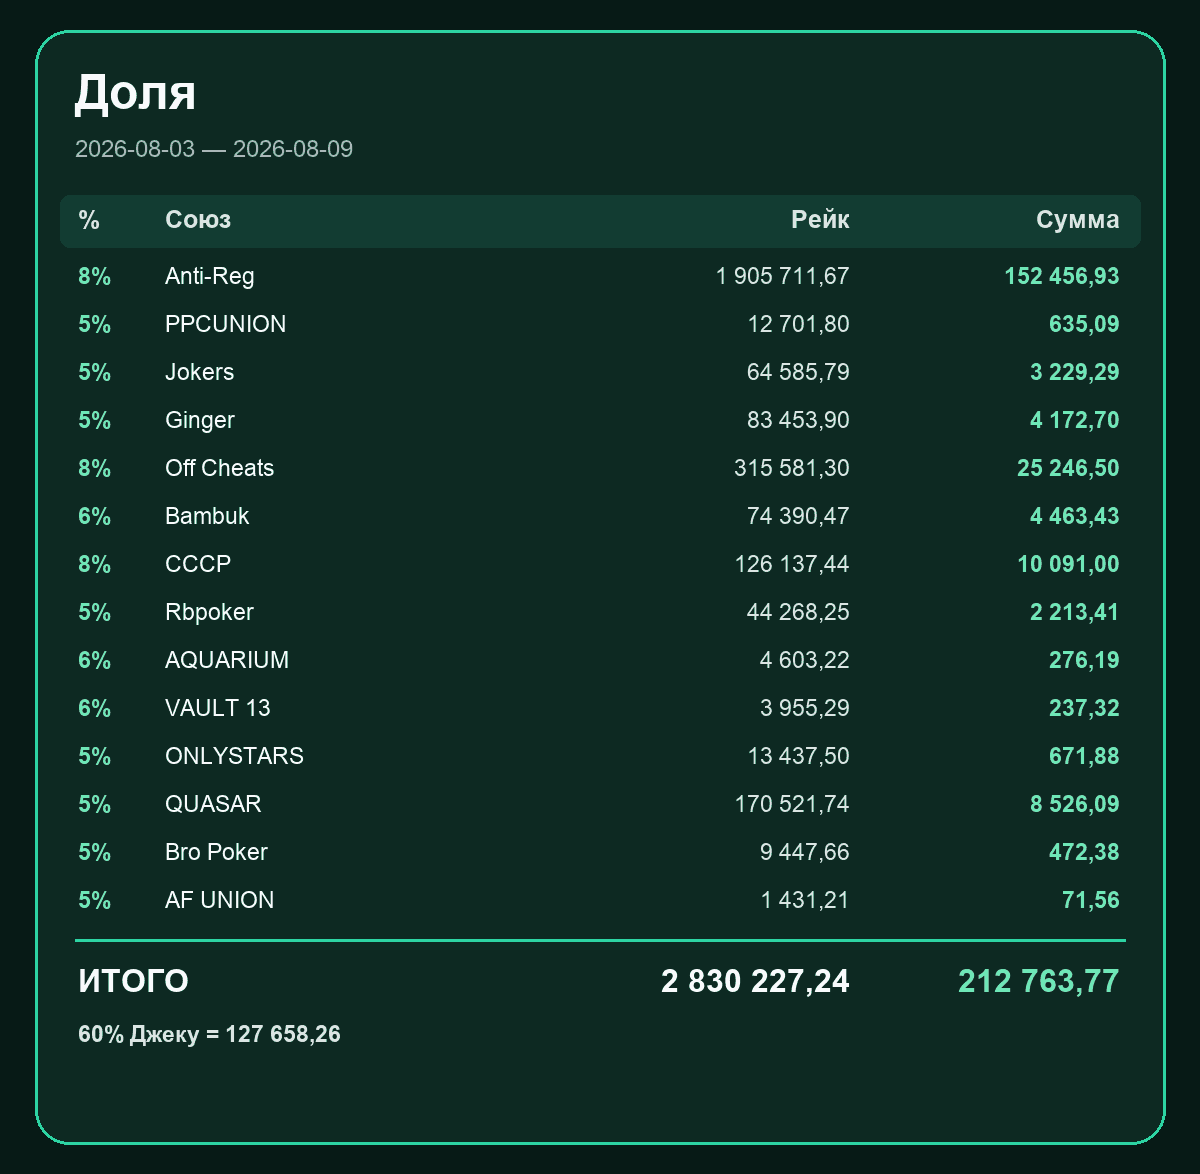
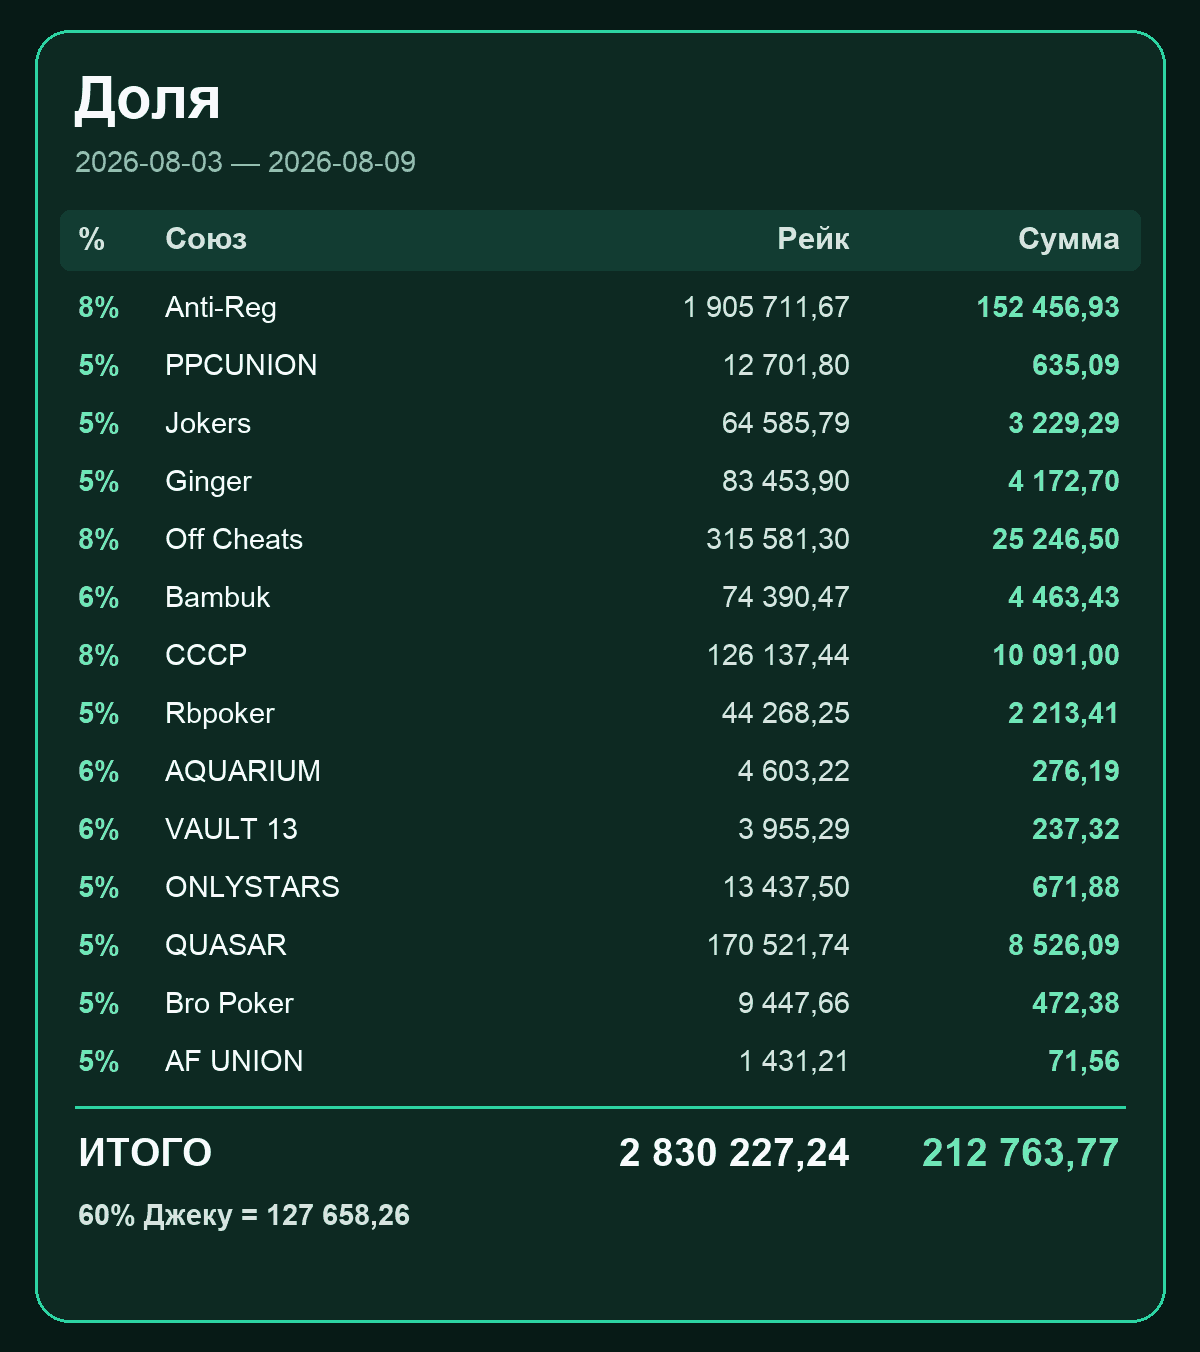
Add full share distribution report

Changed region(s): [[0.0308, 0.0, 0.9558, 0.9199], [0.0308, 0.9506, 0.9867, 0.9813], [0.9558, 0.0307, 0.9867, 0.0613]]

diff --git a/lib/api-handlers/telegram-report-webhook.js b/lib/api-handlers/telegram-report-webhook.js
@@ -872,10 +872,8 @@ function calculateChineseRake(data = latestUnionData) {
 }
 
 async function sendChineseRake(chatId, data = latestUnionData) {
-  const { rows, totalRake, total, share } = calculateChineseRake(data);
+  const { totalRake, total, share } = calculateChineseRake(data);
   const lines = [
-    ...rows.map((row) => `${formatPercent(row.percent)}% — ${escapeTelegramHtml(row.label)} — ${formatRake(row.rake)} — ${formatRake(row.amount)}`),
-    "",
     `<b>ИТОГО РЕЙК: ${formatRake(totalRake)}</b>`,
     `<b>ИТОГО ПРОЦЕНТ: ${formatRake(total)}</b>`,
     "",
@@ -892,8 +890,14 @@ async function sendChineseRake(chatId, data = latestUnionData) {
 }
 
 async function sendShareDistribution(chatId, data = latestUnionData) {
-  const { share } = calculateChineseRake(data);
+  const { totalRake, total, share } = calculateChineseRake(data);
   const lines = [
+    `<b>ИТОГО РЕЙК: ${formatRake(totalRake)}</b>`,
+    `<b>ИТОГО ПРОЦЕНТ: ${formatRake(total)}</b>`,
+    "",
+    `60% Джеку = ${formatRake(share(60))}`,
+    `40% наша доля = ${formatRake(share(40))}`,
+    "",
     "<b>Распределение нашей доли:</b>",
     `Андрюха 2% = ${formatRake(share(2))}`,
     `Роман 2% = ${formatRake(share(2))}`,
@@ -904,9 +908,10 @@ async function sendShareDistribution(chatId, data = latestUnionData) {
     `Илюха 7% = ${formatRake(share(7))}`,
     `Роман 14,75% = ${formatRake(share(14.75))}`,
   ];
-  const sent = await telegram("sendMessage", {
+  const sent = await telegram("sendPhoto", {
     chat_id: chatId,
-    text: lines.join("\n"),
+    photo: `${APP_ORIGIN}/assets/reports/share/2026-08-03_2026-08-09-full.png?v=share-full-1`,
+    caption: lines.join("\n"),
     parse_mode: "HTML",
   });
   return Boolean(sent.ok);

diff --git a/scripts/build-share-report-card.py b/scripts/build-share-report-card.py
@@ -24,6 +24,9 @@ RULES = [
     ("league", "596499", "AF UNION", 5),
 ]
 
+SPLITS = [("Андрюха", 2), ("Роман", 2), ("Макс", 3), ("Серёга", 3.25),
+          ("Диман", 4), ("Костян", 4), ("Илюха", 7), ("Роман", 14.75)]
+
 def font(size, bold=False):
     paths = [
         "/System/Library/Fonts/Supplemental/Arial Bold.ttf" if bold else "/System/Library/Fonts/Supplemental/Arial.ttf",
@@ -49,8 +52,9 @@ def right(draw, x, y, text, selected_font, fill):
 
 
 def main():
-    if len(sys.argv) != 4:
-        raise SystemExit("Usage: build-share-report-card.py JACKPOT.json DIRECTORY.json OUTPUT.png")
+    if len(sys.argv) not in (4, 5):
+        raise SystemExit("Usage: build-share-report-card.py JACKPOT.json DIRECTORY.json OUTPUT.png [full]")
+    full = len(sys.argv) == 5 and sys.argv[4] == "full"
     jackpot = json.loads(Path(sys.argv[1]).read_text(encoding="utf-8"))
     directory = json.loads(Path(sys.argv[2]).read_text(encoding="utf-8"))
     leagues = {str(row.get("leagueId")): row for row in jackpot.get("leagues", [])}
@@ -65,33 +69,44 @@ def main():
     total_rake = round_money(sum((Decimal(str(row[2])) for row in rows), Decimal("0")))
     total = round_money(sum((row[3] for row in rows), Decimal("0")))
 
-    image_height = 502 + len(rows) * 48
+    row_height = 58
+    image_height = (1010 if full else 540) + len(rows) * row_height
     image = Image.new("RGB", (1200, image_height), "#071A16")
     draw = ImageDraw.Draw(image)
     draw.rounded_rectangle((35, 30, 1165, image_height - 30), radius=34, fill="#0D2922", outline="#2DD4A3", width=3)
-    title, header, body, body_bold, total_font = font(48, True), font(25, True), font(23), font(23, True), font(32, True)
+    title, header, body, body_bold, total_font = font(58, True), font(31, True), font(29), font(29, True), font(39, True)
     draw.text((75, 65), "Доля", font=title, fill="#F8FAFC")
-    draw.text((75, 135), f"{jackpot['startDate']} — {jackpot['endDate']}", font=font(24), fill="#94A3B8")
-    y = 205
-    draw.rounded_rectangle((60, y - 10, 1140, y + 42), radius=10, fill="#123C32")
+    draw.text((75, 145), f"{jackpot['startDate']} — {jackpot['endDate']}", font=font(29), fill="#94A3B8")
+    y = 220
+    draw.rounded_rectangle((60, y - 10, 1140, y + 50), radius=10, fill="#123C32")
     draw.text((78, y), "%", font=header, fill="#D7E3DF")
     draw.text((165, y), "Союз", font=header, fill="#D7E3DF")
     right(draw, 850, y, "Рейк", header, "#D7E3DF")
     right(draw, 1120, y, "Сумма", header, "#D7E3DF")
-    y += 58
+    y += 70
     for percent, label, rake, amount in rows:
         draw.text((78, y), f"{percent:g}%", font=body_bold, fill="#6EE7B7")
         draw.text((165, y), label, font=body, fill="#F8FAFC")
         right(draw, 850, y, money(rake), body, "#D7E3DF")
         right(draw, 1120, y, money(amount), body_bold, "#6EE7B7")
-        y += 48
+        y += row_height
     draw.line((75, y + 5, 1125, y + 5), fill="#2DD4A3", width=3)
     y += 28
     draw.text((78, y), "ИТОГО", font=total_font, fill="#F8FAFC")
     right(draw, 850, y, money(total_rake), total_font, "#F8FAFC")
     right(draw, 1120, y, money(total), total_font, "#6EE7B7")
-    y += 58
+    y += 68
     draw.text((78, y), f"60% Джеку = {money(round_money(total * Decimal('0.60')))}", font=body_bold, fill="#D7E3DF")
+    if full:
+        y += 50
+        draw.text((78, y), f"40% наша доля = {money(round_money(total * Decimal('0.40')))}", font=body_bold, fill="#D7E3DF")
+        y += 65
+        draw.text((78, y), "Распределение нашей доли", font=header, fill="#F8FAFC")
+        y += 52
+        for name, percent in SPLITS:
+            draw.text((78, y), f"{name} {str(percent).replace('.', ',')}%", font=body, fill="#D7E3DF")
+            right(draw, 1120, y, money(round_money(total * Decimal(str(percent)) / 100)), body_bold, "#6EE7B7")
+            y += 46
 
     output = Path(sys.argv[3])
     output.parent.mkdir(parents=True, exist_ok=True)
